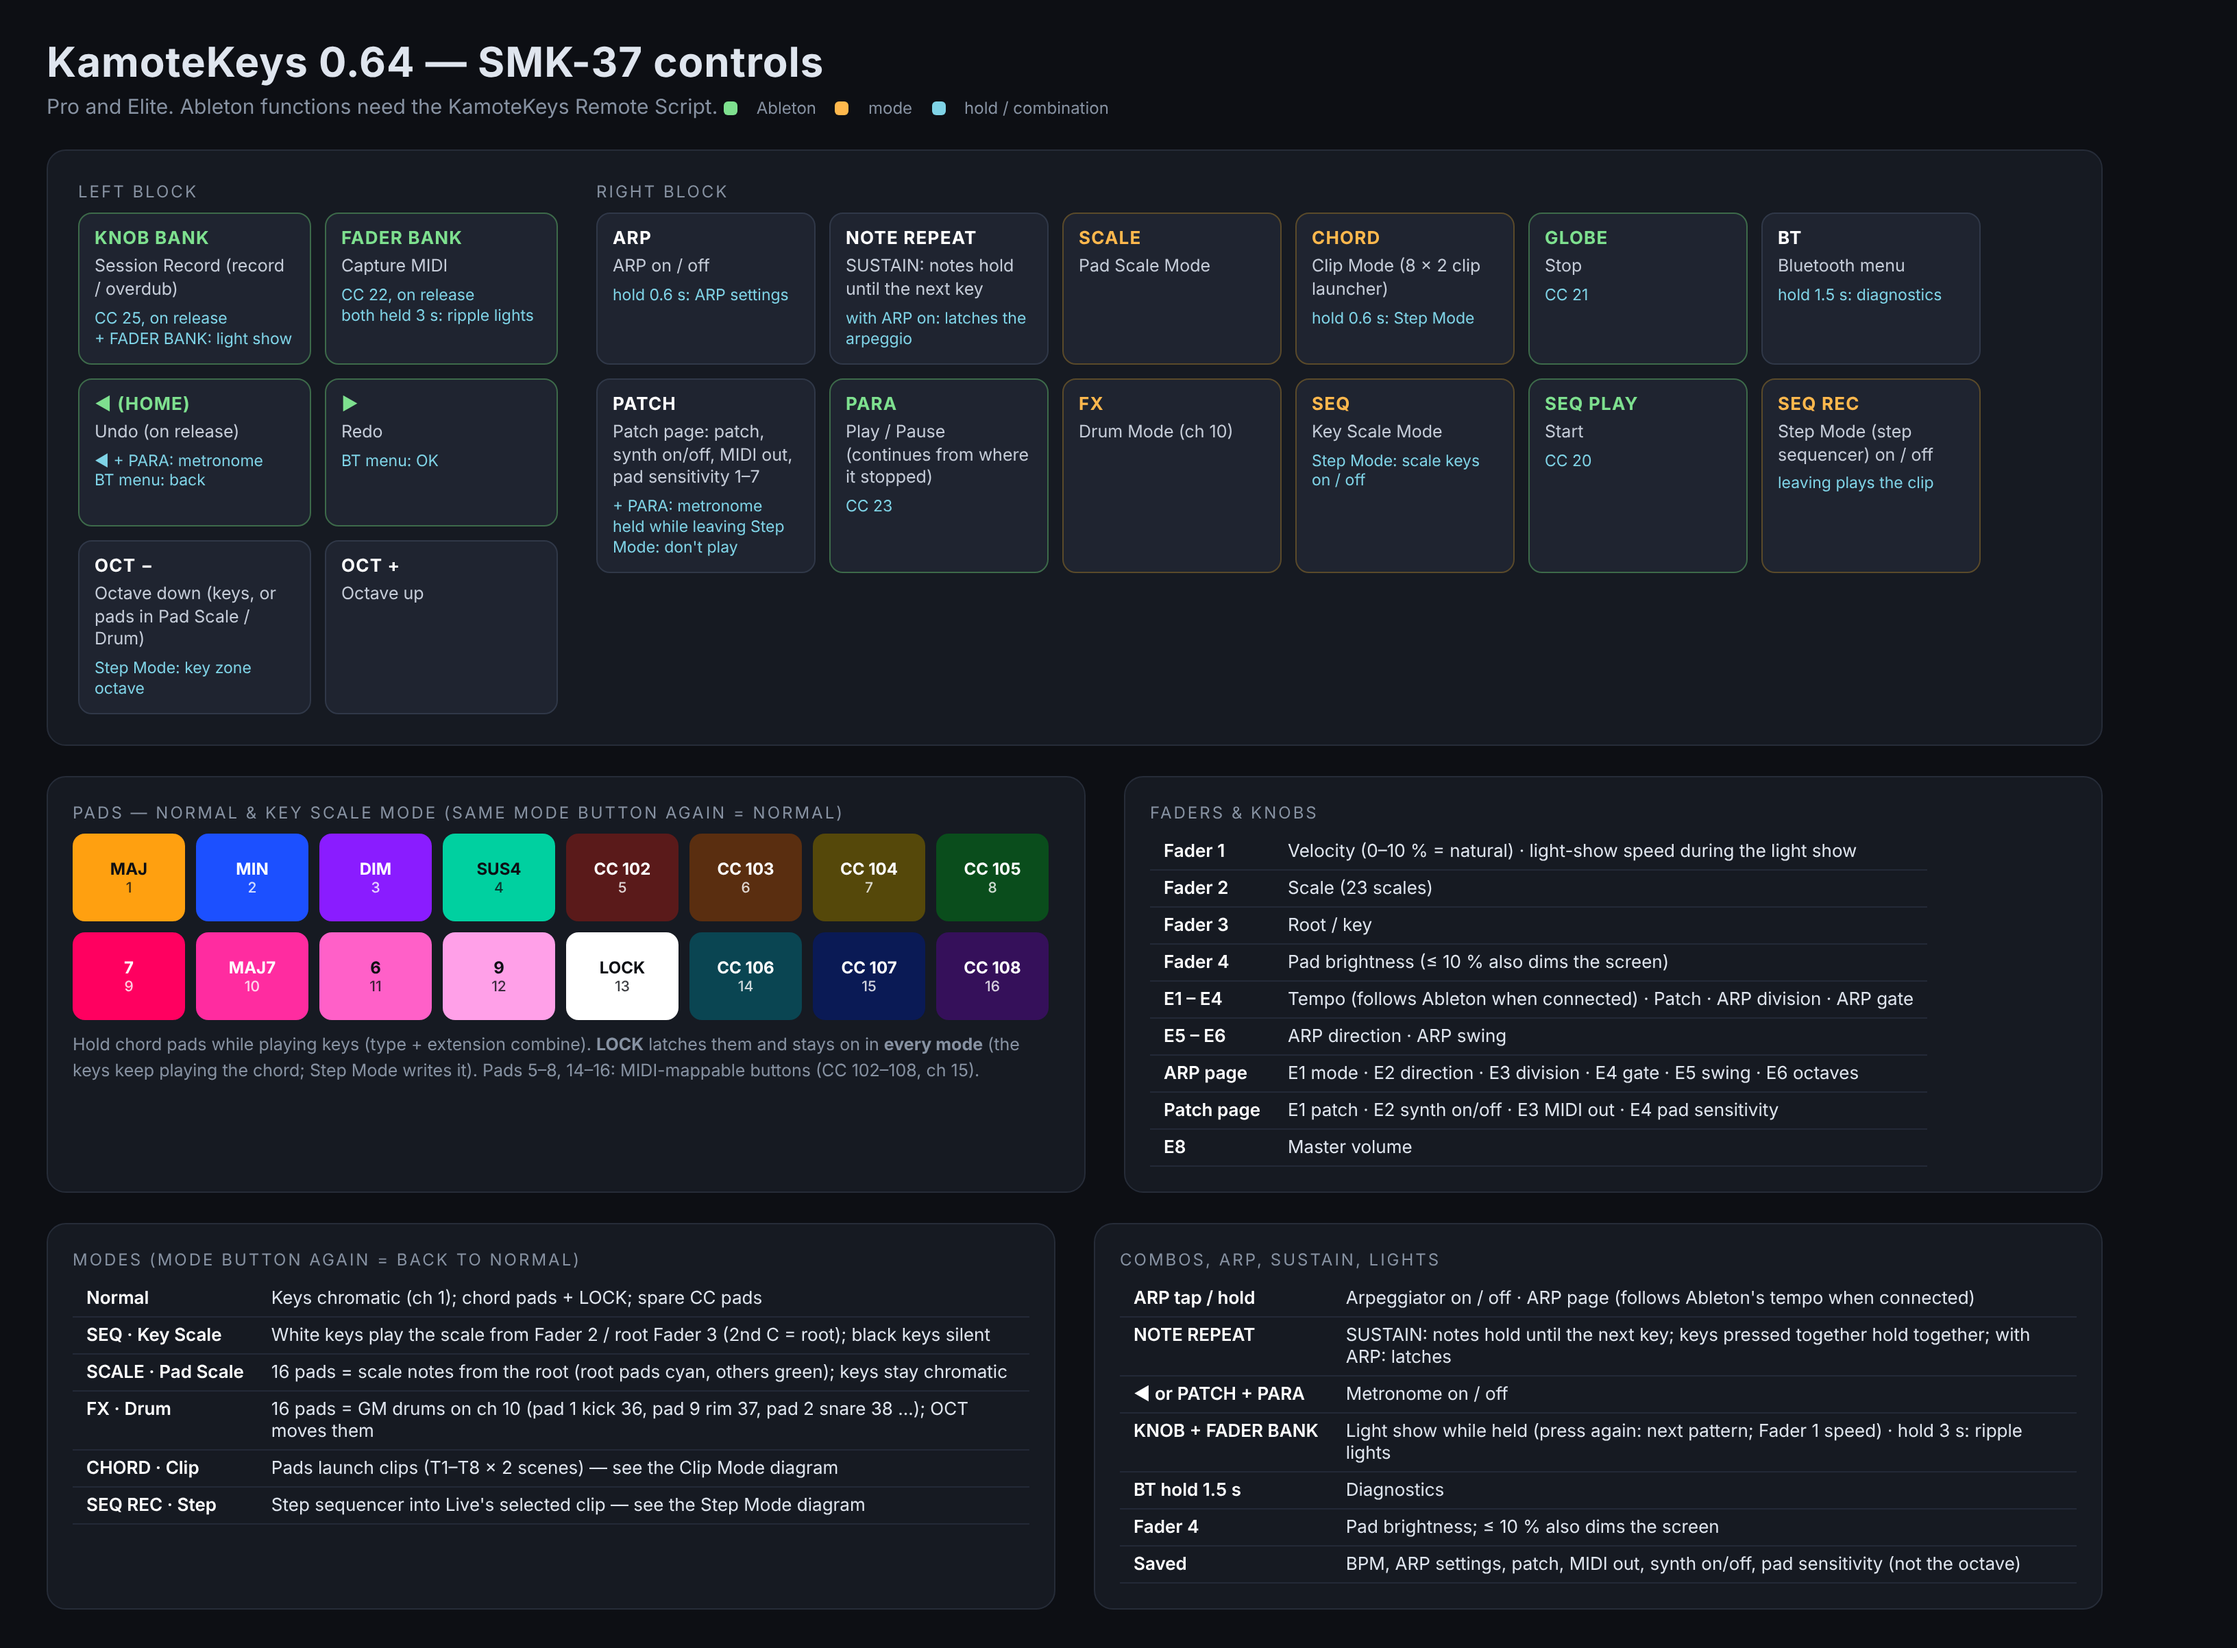
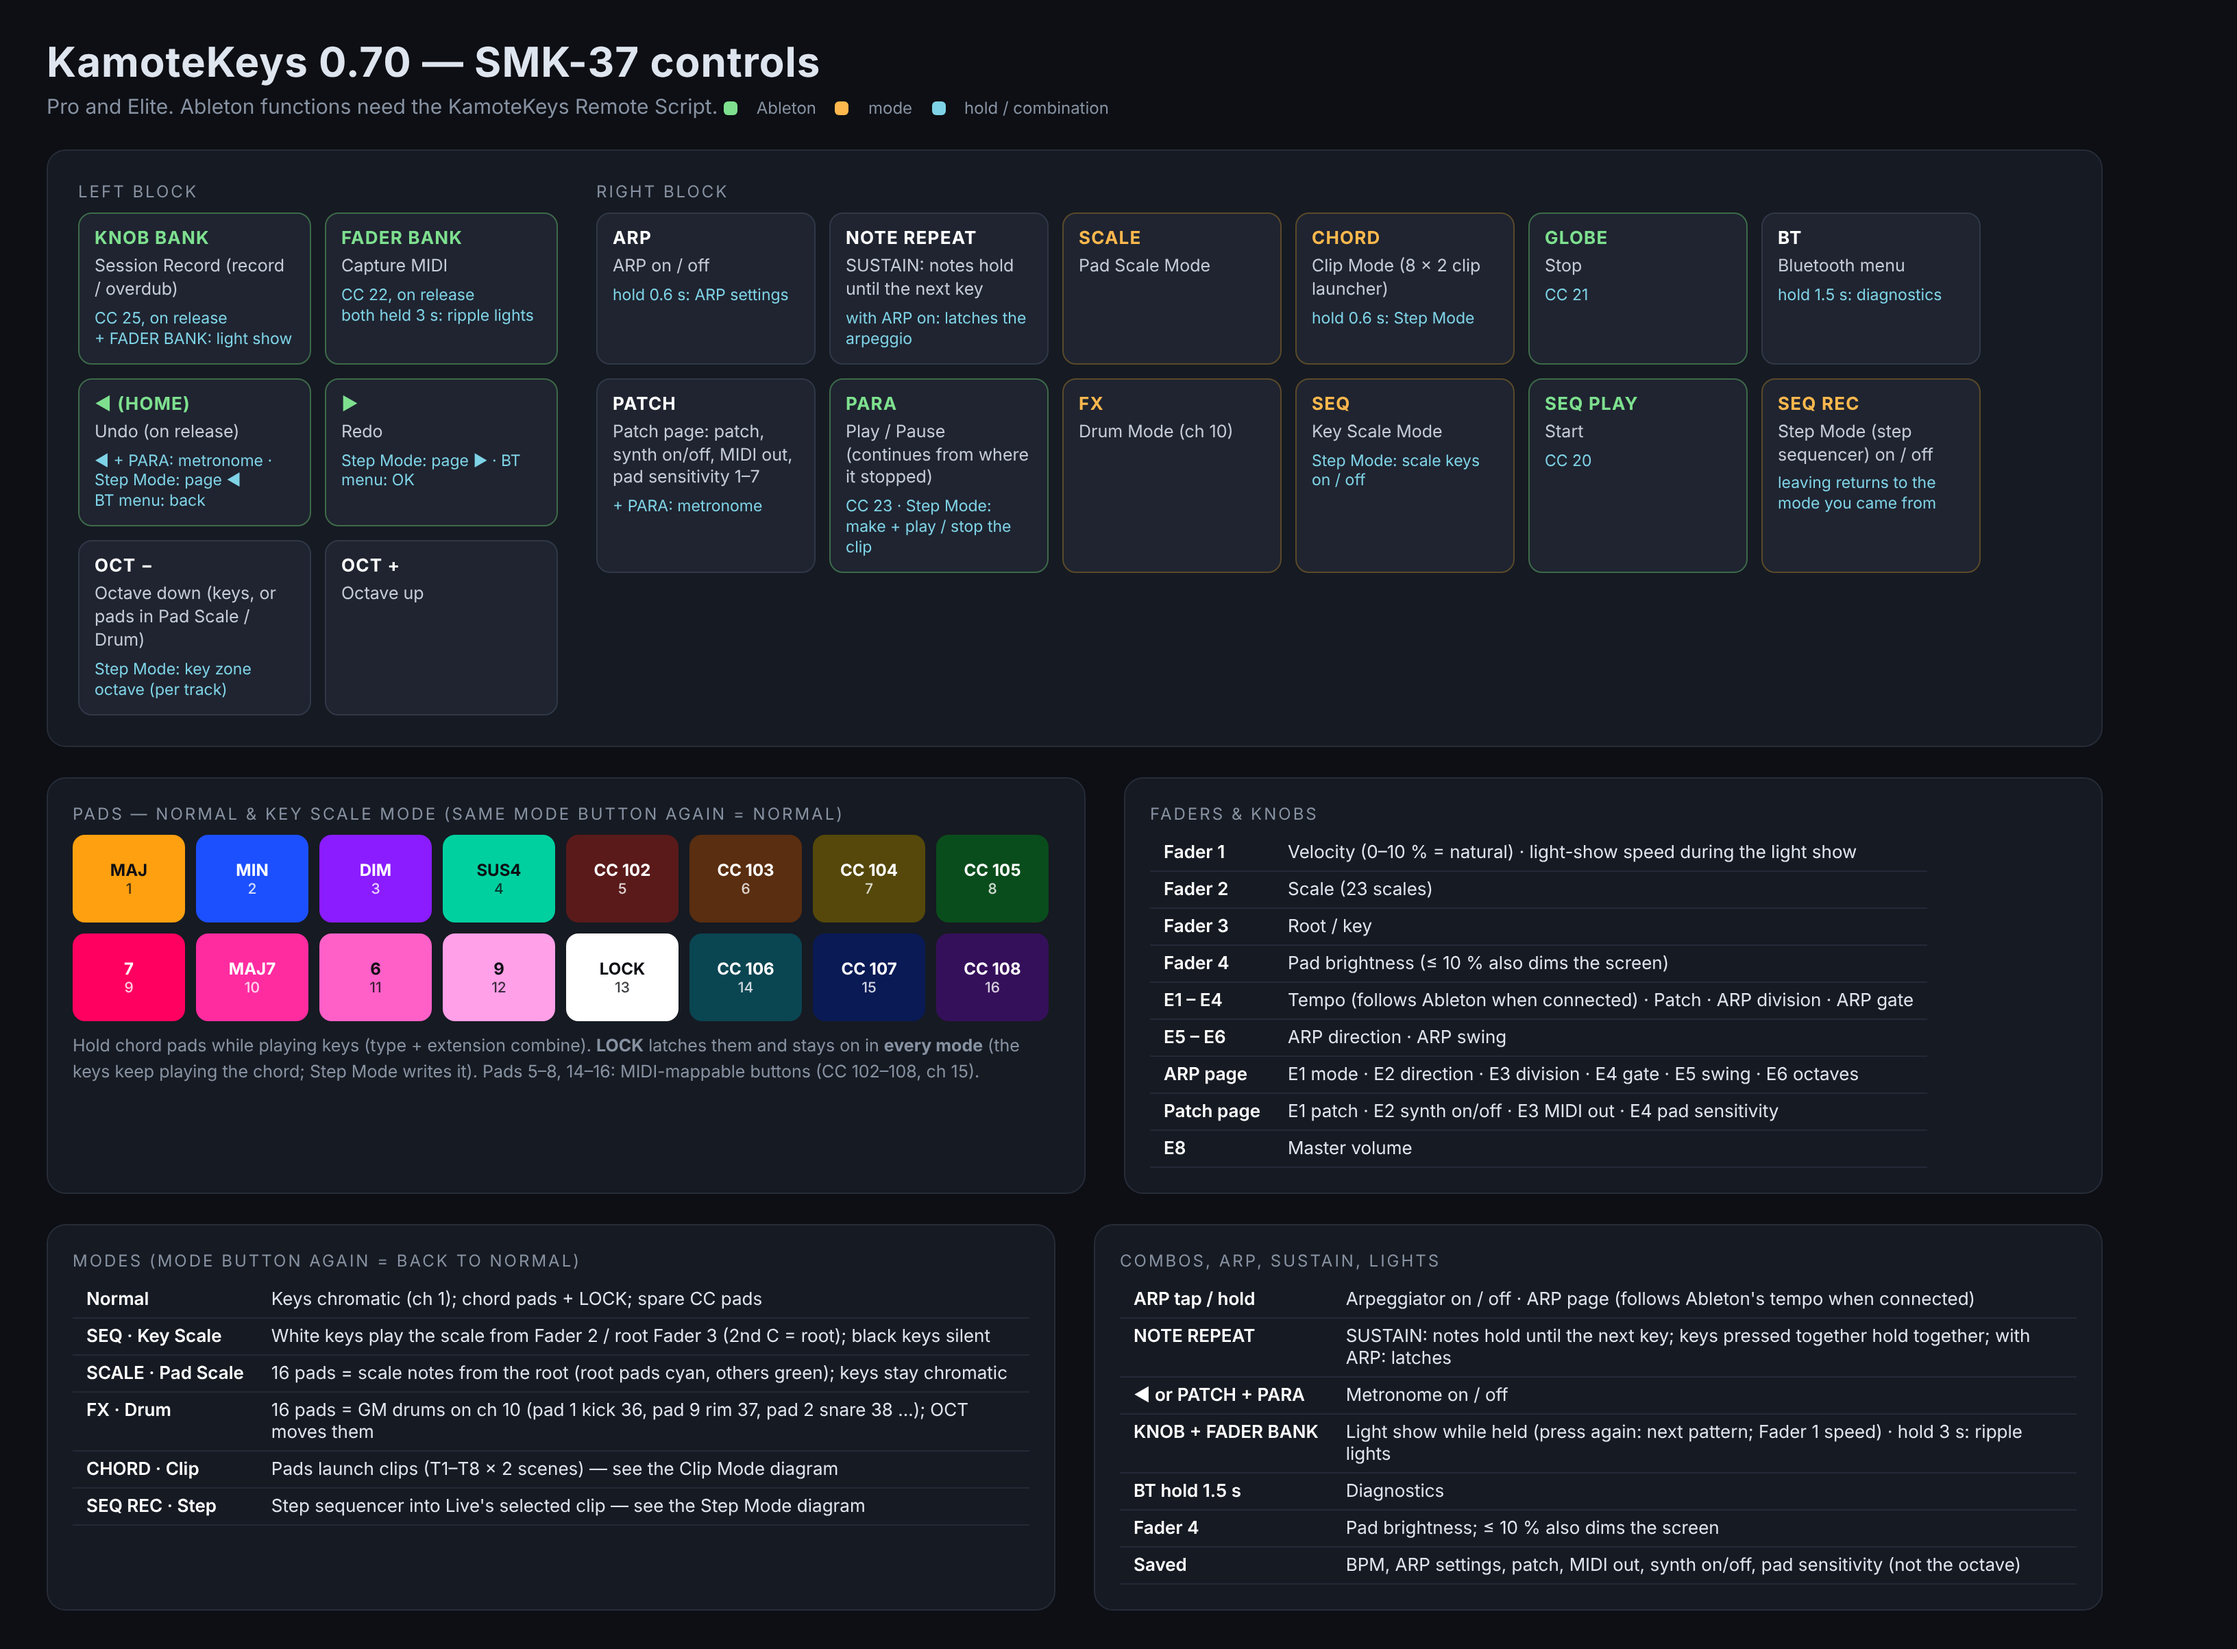
Full SMK-37 diagrams for 0.70: controls, every control per mode, play modes, Clip and Step Mode
Claude-Session: https://claude.ai/code/session_014nKCDtX9z2HT4cnrjTFgfW

diff --git a/README.md b/README.md
@@ -66,7 +66,7 @@ Both models need SMK37 OPEN's update path (the model-specific workbench page). P
 
 ## Controls at a glance
 
-Diagrams: [all controls](docs/diagrams/SMK37-Controls.png) · [Clip Mode](docs/diagrams/SMK37-Clip-Mode.png) · [Step Mode](docs/diagrams/SMK37-Step-Mode.png)
+Diagrams: [all controls](docs/diagrams/SMK37-Controls.png) · [every control in every mode](docs/diagrams/SMK37-Modes-Table.png) · [play modes](docs/diagrams/SMK37-Play-Modes.png) · [Clip Mode](docs/diagrams/SMK37-Clip-Mode.png) · [Step Mode](docs/diagrams/SMK37-Step-Mode.png) · [startup](docs/diagrams/SMK37-Boot.gif)
 
 ```
  LEFT BLOCK                         RIGHT BLOCK
